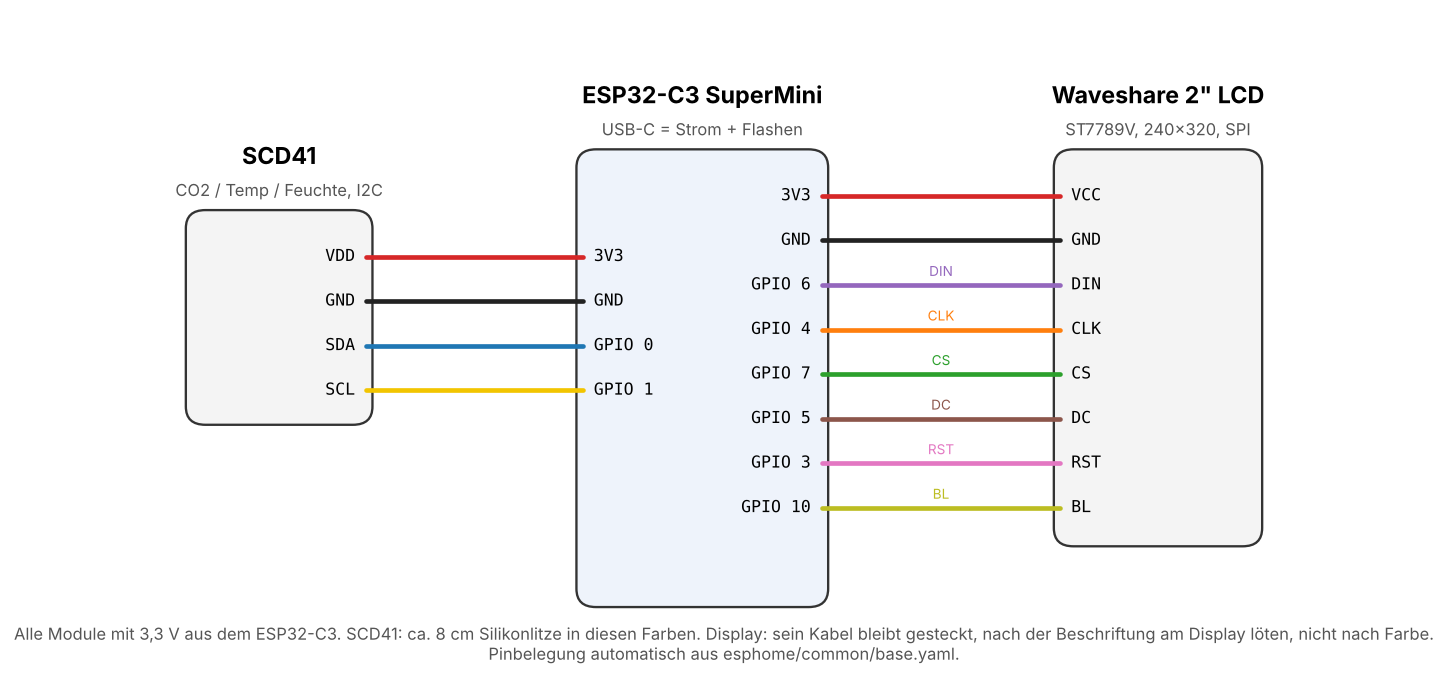
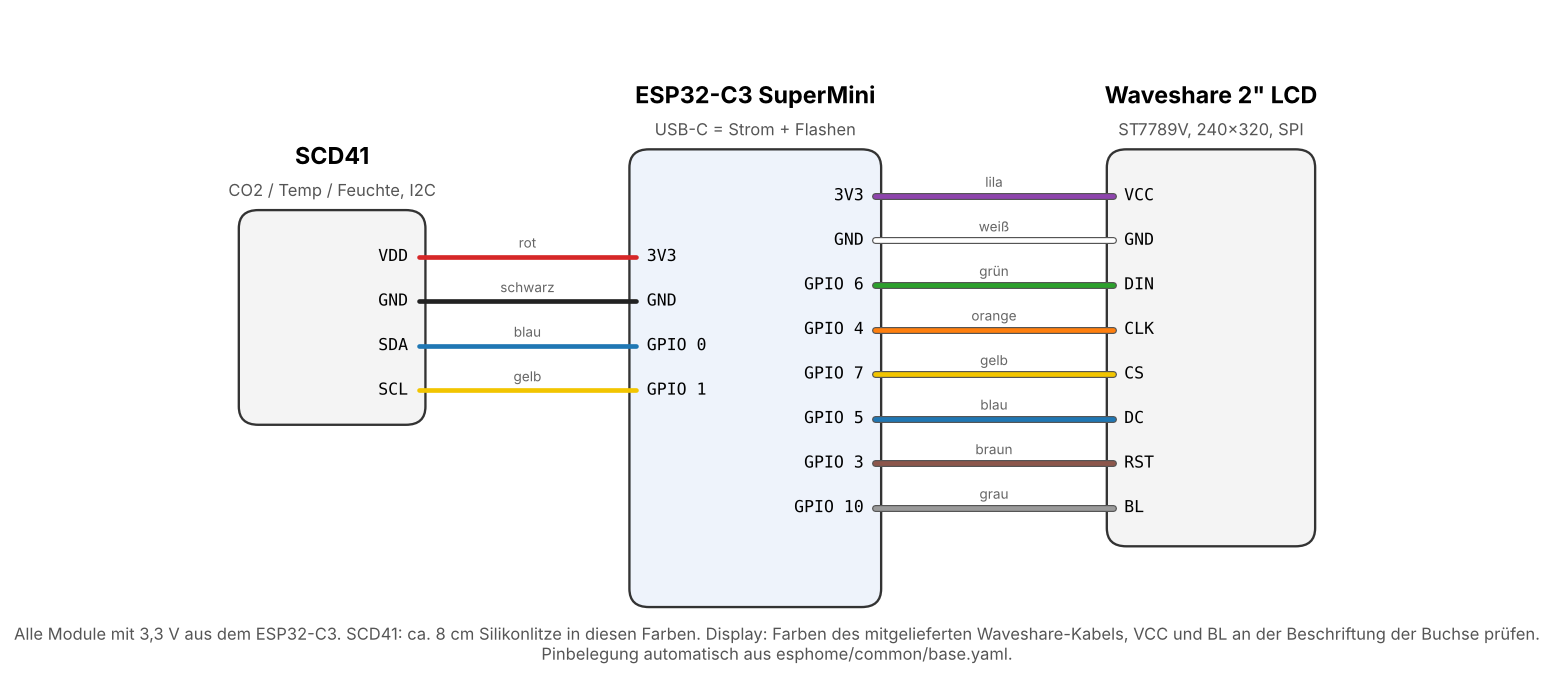
fix(docs): wiring plan and 3D guide in the real colours of the Waveshare cable (work in progress)
Claude-Session: https://claude.ai/code/session_015HxB3nZPNGitZsjqH2sYhj

diff --git a/tools/wiring.py b/tools/wiring.py
@@ -18,6 +18,7 @@ import matplotlib
 matplotlib.use("Agg")
 import matplotlib.pyplot as plt  # noqa: E402
 import yaml  # noqa: E402
+from matplotlib import patheffects as pe  # noqa: E402
 from matplotlib.patches import FancyBboxPatch  # noqa: E402
 
 ROOT = Path(__file__).resolve().parents[1]
@@ -30,16 +31,38 @@ TEXT = {
         "lcd_sub": "ST7789V, 240x320, SPI",
         "scd_sub": "CO2 / temp / humidity, I2C",
         "footer": "All modules run on 3.3 V from the ESP32-C3. SCD41: about 8 cm of silicone wire in these colours. "
-        "Display: its own cable stays plugged in, solder by the labels on the display, not by colour.\n"
+        "Display: the colours of the supplied Waveshare cable, check VCC and BL at the labels of the socket.\n"
         "Pins are read from esphome/common/base.yaml.",
+        "colour": {
+            "3V3": "purple",
+            "GND": "white",
+            "DIN": "green",
+            "CLK": "orange",
+            "CS": "yellow",
+            "DC": "blue",
+            "RST": "brown",
+            "BL": "grey",
+        },
+        "colour_scd": {"3V3": "red", "GND": "black", "SDA": "blue", "SCL": "yellow"},
     },
     "de": {
         "esp_sub": "USB-C = Strom + Flashen",
         "lcd_sub": "ST7789V, 240x320, SPI",
         "scd_sub": "CO2 / Temp / Feuchte, I2C",
         "footer": "Alle Module mit 3,3 V aus dem ESP32-C3. SCD41: ca. 8 cm Silikonlitze in diesen Farben. "
-        "Display: sein Kabel bleibt gesteckt, nach der Beschriftung am Display löten, nicht nach Farbe.\n"
+        "Display: Farben des mitgelieferten Waveshare-Kabels, VCC und BL an der Beschriftung der Buchse prüfen.\n"
         "Pinbelegung automatisch aus esphome/common/base.yaml.",
+        "colour": {
+            "3V3": "lila",
+            "GND": "weiß",
+            "DIN": "grün",
+            "CLK": "orange",
+            "CS": "gelb",
+            "DC": "blau",
+            "RST": "braun",
+            "BL": "grau",
+        },
+        "colour_scd": {"3V3": "rot", "GND": "schwarz", "SDA": "blau", "SCL": "gelb"},
     },
 }
 
@@ -73,18 +96,19 @@ def render(lang: str, p: dict[str, str]):
     ax.set_xlim(0, 110)
     ax.set_ylim(0, 66)
     ax.axis("off")
-    farben = {
-        "3V3": "#d62728",
-        "GND": "#222222",
-        "SDA": "#1f77b4",
-        "SCL": "#f2c500",
-        "CLK": "#ff7f0e",
-        "DIN": "#9467bd",
-        "CS": "#2ca02c",
-        "DC": "#8c564b",
-        "RST": "#e377c2",
-        "BL": "#bcbd22",
+    # display: the colours of the supplied Waveshare cable, SCD41: the silicone wire set of the bill of materials
+    lcd_farben = {
+        "3V3": "#8e44ad",  # lila
+        "GND": "#ffffff",  # weiß
+        "DIN": "#2ca02c",  # grün
+        "CLK": "#ff7f0e",  # orange
+        "CS": "#f2c500",  # gelb
+        "DC": "#1f77b4",  # blau
+        "RST": "#8c564b",  # braun
+        "BL": "#9a9a9a",  # grau
     }
+    scd_farben = {"3V3": "#d62728", "GND": "#222222", "SDA": "#1f77b4", "SCL": "#f2c500"}
+    outline = [pe.Stroke(linewidth=3.6, foreground="#555"), pe.Normal()]  # keeps the white wire visible
 
     def module_box(x, y, b, h, titel, sub, fc):
         ax.add_patch(FancyBboxPatch((x, y), b, h, boxstyle="round,pad=0.6,rounding_size=1.8", fc=fc, ec="#333", lw=1.2))
@@ -113,23 +137,24 @@ def render(lang: str, p: dict[str, str]):
     for i, (sig, pin) in enumerate(lcd):
         y = dy + dh - 4 - i * 4.4
         gpio = "3V3" if sig == "3V3" else "GND" if sig == "GND" else p[sig].replace("GPIO", "GPIO ")
-        ax.plot([ex + eb, dx], [y, y], color=farben[sig], lw=2.4, solid_capstyle="round")
+        ax.plot([ex + eb, dx], [y, y], color=lcd_farben[sig], lw=2.4, solid_capstyle="round", path_effects=outline)
         ax.text(ex + eb - 1, y, gpio, ha="right", va="center", fontsize=8.5, family="monospace")
         ax.text(dx + 1, y, pin, ha="left", va="center", fontsize=8.5, family="monospace")
         ax.text(
             (ex + eb + dx) / 2,
             y + 0.9,
-            sig if sig not in ("3V3", "GND") else "",
+            t["colour"][sig],
             ha="center",
             fontsize=7,
-            color=farben[sig],
+            color="#666",
         )
 
     scd = [("3V3", "VDD"), ("GND", "GND"), ("SDA", "SDA"), ("SCL", "SCL")]
     for i, (sig, pin) in enumerate(scd):
         y = sy + sh - 4 - i * 4.4
         gpio = "3V3" if sig == "3V3" else "GND" if sig == "GND" else p[sig].replace("GPIO", "GPIO ")
-        ax.plot([sx + sb, ex], [y, y], color=farben[sig], lw=2.4, solid_capstyle="round")
+        ax.plot([sx + sb, ex], [y, y], color=scd_farben[sig], lw=2.4, solid_capstyle="round")
+        ax.text((sx + sb + ex) / 2, y + 0.9, t["colour_scd"][sig], ha="center", fontsize=7, color="#666")
         ax.text(sx + sb - 1, y, pin, ha="right", va="center", fontsize=8.5, family="monospace")
         ax.text(ex + 1, y, gpio, ha="left", va="center", fontsize=8.5, family="monospace")
 

diff --git a/tools/assembly_model.py b/tools/assembly_model.py
@@ -45,19 +45,18 @@ STEEL = "#a7adb4"
 GOLD = "#d9b23a"
 RUBBER = "#202226"
 
-# wire colours of docs/wiring.md (tools/wiring.py)
-WIRE = {
-    "3V3": "#d62728",
-    "GND": "#2b2b2b",
-    "SDA": "#1f77b4",
-    "SCL": "#f2c500",
+# wire colours of docs/wiring.md (tools/wiring.py): the supplied Waveshare cable and the silicone wire set
+WIRE_LCD = {
+    "3V3": "#8e44ad",
+    "GND": "#f2f2f2",
+    "DIN": "#2ca02c",
     "CLK": "#ff7f0e",
-    "DIN": "#9467bd",
-    "CS": "#2ca02c",
-    "DC": "#8c564b",
-    "RST": "#e377c2",
-    "BL": "#bcbd22",
+    "CS": "#f2c500",
+    "DC": "#1f77b4",
+    "RST": "#8c564b",
+    "BL": "#9a9a9a",
 }
+WIRE_SCD = {"3V3": "#d62728", "GND": "#2b2b2b", "SDA": "#1f77b4", "SCL": "#f2c500"}
 
 INSERT_D, INSERT_L = 3.2, 3.0
 SCREW_HEAD_D, SCREW_HEAD_H, SCREW_D, SCREW_L = 3.5, 1.1, 2.0, 4.0  # ISO 7380 M2 x 4
@@ -259,7 +258,7 @@ def wires_display(p: dict) -> list[dict]:
         pts += _line(pts[-1], [lane, pad[1], z_lane])
         pts += _line(pts[-1], [pad[0], pad[1], z_lane])
         pts += _line(pts[-1], pad, 0.4)
-        out.append({"color": WIRE[n], "points": _r(pts), "label": n})
+        out.append({"color": WIRE_LCD[n], "points": _r(pts), "label": n})
     return out
 
 
@@ -320,7 +319,7 @@ def wires_scd(p: dict) -> list[dict]:
             pts += _line(pts[-1], [x_strip, pad[1], z_hi])
         pts += _line(pts[-1], [pad[0], pad[1], pts[-1][2]])
         pts += _line(pts[-1], pad, 0.4)
-        out.append({"color": WIRE[n], "points": _r(pts), "label": n, "r": r})
+        out.append({"color": WIRE_SCD[n], "points": _r(pts), "label": n, "r": r})
     return out
 
 
